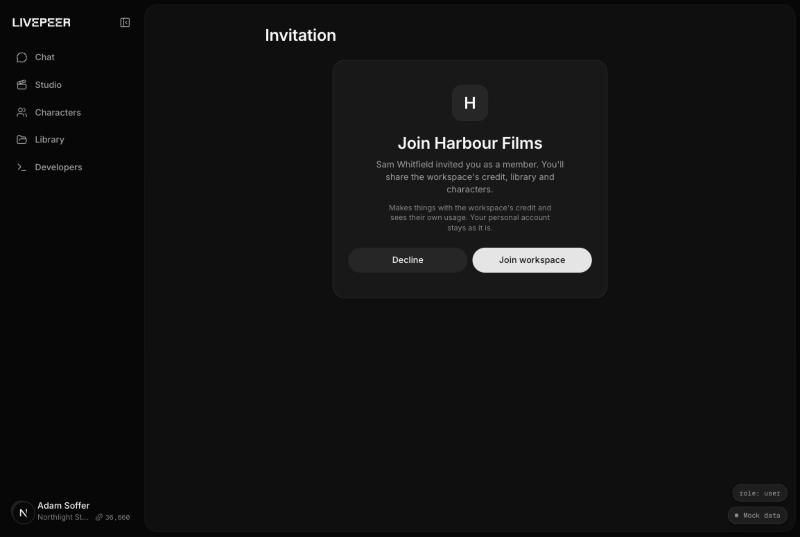
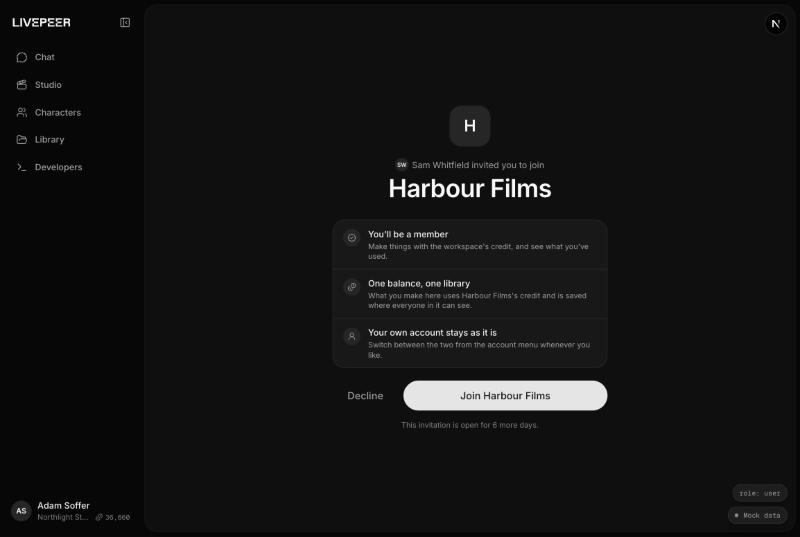
feat(web): make the invitation page one centred decision

diff --git a/packages/user-app/src/workspace/join.tsx b/packages/user-app/src/workspace/join.tsx
@@ -2,11 +2,11 @@
 
 import type { WorkspaceInvitation } from "@livepeer/api-client/provider";
 import { Button, Card, EmptyState } from "@livepeer/ui";
-import { MailX } from "lucide-react";
-import { useState, useTransition } from "react";
+import { BadgeCheck, Coins, MailX, UserRound, type LucideIcon } from "lucide-react";
+import { useState, useTransition, type ReactNode } from "react";
 
 import { useLink } from "../shell/link";
-import { ROLE_SUMMARY, WorkspaceMark, type Outcome } from "./shared";
+import { PersonMark, ROLE_FOR_YOU, WorkspaceMark, type Outcome } from "./shared";
 
 export interface JoinWorkspaceProps {
   /** Null when the link isn't a real invitation. */
@@ -24,25 +24,48 @@ const CLOSED: Record<Exclude<WorkspaceInvitation["status"], "pending">, string> 
   expired: "This invitation ran out. They last 7 days.",
 };
 
-/** Where an invitation link lands: what you're joining and who asked, then join or decline. */
+function Fact({ icon: Icon, title, children }: { icon: LucideIcon; title: string; children: ReactNode }) {
+  return (
+    <li className="flex gap-3 px-4 py-3">
+      <span aria-hidden className="mt-0.5 flex size-7 shrink-0 items-center justify-center rounded-full bg-secondary text-muted-foreground">
+        <Icon className="size-3.5" strokeWidth={1.75} />
+      </span>
+      <div className="min-w-0">
+        <p className="text-body font-medium text-foreground">{title}</p>
+        <p className="mt-0.5 text-caption text-muted-foreground">{children}</p>
+      </div>
+    </li>
+  );
+}
+
+function daysLeft(invitation: WorkspaceInvitation): string {
+  const days = Math.ceil((Date.parse(invitation.expires_at) - Date.now()) / 86_400_000);
+  return days <= 1 ? "This invitation ends today." : `This invitation is open for ${days} more days.`;
+}
+
+/**
+ * Where an invitation link lands. One decision, alone in the middle of the page: which workspace and who
+ * asked, what joining changes, then join or decline.
+ */
 export function JoinWorkspace({ invitation, alreadyMember, accept, decline }: JoinWorkspaceProps) {
   const Link = useLink();
   const [pending, startTransition] = useTransition();
   const [error, setError] = useState<string | null>(null);
   const [declined, setDeclined] = useState(false);
   const home = <Button asChild><Link href="/">Back to Home</Link></Button>;
+  const frame = (content: ReactNode) => <div className="flex flex-1 items-center justify-center px-4 py-10"><div className="w-full max-w-[440px]">{content}</div></div>;
 
   if (!invitation) {
-    return <EmptyState icon={MailX} title="This link isn't an invitation" body="Check it was copied in full, or ask whoever invited you to send it again." action={home} />;
+    return frame(<EmptyState icon={MailX} title="This link isn't an invitation" body="Check it was copied in full, or ask whoever invited you to send it again." action={home} />);
   }
   if (declined || invitation.status !== "pending") {
-    return (
+    return frame(
       <EmptyState
         icon={MailX}
         title={declined ? "Invitation declined" : "This invitation is no longer open"}
         body={declined ? `You haven't joined ${invitation.workspace_name}. ${invitation.invited_by_name} can invite you again if you change your mind.` : `${CLOSED[invitation.status as keyof typeof CLOSED]} Ask ${invitation.invited_by_name} for a new one.`}
         action={home}
-      />
+      />,
     );
   }
 
@@ -55,21 +78,36 @@ export function JoinWorkspace({ invitation, alreadyMember, accept, decline }: Jo
       else setError(result.error);
     });
   };
+  const role = invitation.role === "admin" ? "an admin" : "a member";
 
-  return (
-    <Card className="mx-auto flex max-w-[440px] flex-col items-center px-6 py-10 text-center">
-      <WorkspaceMark name={invitation.workspace_name} className="mb-5 size-14 rounded-[15px] text-title" />
-      <h2 className="text-title font-semibold tracking-[-0.01em]">Join {invitation.workspace_name}</h2>
-      <p className="mt-2 max-w-[36ch] text-body text-muted-foreground">
-        {invitation.invited_by_name} invited you as {invitation.role === "admin" ? "an admin" : "a member"}. You'll share the workspace's credit, library and characters.
-      </p>
-      <p className="mt-3 max-w-[36ch] text-caption text-subtle-foreground">{ROLE_SUMMARY[invitation.role]} Your personal account stays as it is.</p>
-      {alreadyMember ? <p className="mt-4 text-caption text-muted-foreground">You already belong to this workspace. Switch to it from the account menu.</p> : null}
-      {error ? <p role="alert" className="mt-4 text-caption text-destructive">{error}</p> : null}
-      <div className="mt-6 flex w-full gap-2">
-        <Button className="flex-1" disabled={pending} onClick={() => answer(() => decline(invitation.token), () => setDeclined(true))}>Decline</Button>
-        <Button variant="primary" className="flex-1" disabled={pending || alreadyMember} onClick={() => answer(() => accept(invitation.token))}>{pending ? "Joining…" : "Join workspace"}</Button>
+  return frame(
+    <>
+      <div className="flex flex-col items-center text-center">
+        <WorkspaceMark name={invitation.workspace_name} className="mb-5 size-16 rounded-[18px] text-[26px]" />
+        <p className="flex items-center gap-1.5 text-body text-muted-foreground">
+          <PersonMark name={invitation.invited_by_name} className="size-5 text-[9px]" />
+          {invitation.invited_by_name} invited you to join
+        </p>
+        <h1 className="mt-1.5 text-display font-semibold tracking-[-0.02em] text-foreground">{invitation.workspace_name}</h1>
       </div>
-    </Card>
+
+      <Card className="mt-7">
+        <ul className="divide-y divide-hairline">
+          <Fact icon={BadgeCheck} title={`You'll be ${role}`}>{ROLE_FOR_YOU[invitation.role]}</Fact>
+          <Fact icon={Coins} title="One balance, one library">What you make here uses {invitation.workspace_name}'s credit and is saved where everyone in it can see.</Fact>
+          <Fact icon={UserRound} title="Your own account stays as it is">Switch between the two from the account menu whenever you like.</Fact>
+        </ul>
+      </Card>
+
+      {alreadyMember ? <p className="mt-4 text-center text-caption text-muted-foreground">You already belong to this workspace. Switch to it from the account menu.</p> : null}
+      {error ? <p role="alert" className="mt-4 text-center text-caption text-destructive">{error}</p> : null}
+      <div className="mt-5 flex gap-2">
+        <Button variant="ghost" size="lg" disabled={pending} onClick={() => answer(() => decline(invitation.token), () => setDeclined(true))}>Decline</Button>
+        <Button variant="primary" size="lg" className="min-w-0 flex-1" disabled={pending || alreadyMember} onClick={() => answer(() => accept(invitation.token))}>
+          <span className="truncate">{pending ? "Joining…" : `Join ${invitation.workspace_name}`}</span>
+        </Button>
+      </div>
+      <p className="mt-4 text-center text-caption text-subtle-foreground">{daysLeft(invitation)}</p>
+    </>,
   );
 }

diff --git a/apps/web/app/(app)/join/[token]/page.tsx b/apps/web/app/(app)/join/[token]/page.tsx
@@ -1,5 +1,4 @@
 import { DataSourceBadge, JoinWorkspace } from "@livepeer/user-app";
-import { Page } from "@livepeer/ui";
 import type { Metadata } from "next";
 
 import { acceptInvitationAction, declineInvitationAction } from "@/lib/actions";
@@ -12,7 +11,7 @@ export default async function JoinPage({ params }: { params: Promise<{ token: st
   const { token } = await params;
   const [invitation, list] = await Promise.all([(await api()).getInvitation(token), accounts()]);
   return (
-    <Page title="Invitation" width="narrow">
+    <>
       <JoinWorkspace
         invitation={invitation.data}
         alreadyMember={Boolean(invitation.data && list?.accounts.some((entry) => entry.id === invitation.data?.workspace_id))}
@@ -20,6 +19,6 @@ export default async function JoinPage({ params }: { params: Promise<{ token: st
         decline={declineInvitationAction}
       />
       {isDev ? <DataSourceBadge sources={[{ name: "getInvitation", source: invitation.source }]} /> : null}
-    </Page>
+    </>
   );
 }

diff --git a/packages/user-app/src/workspace/shared.tsx b/packages/user-app/src/workspace/shared.tsx
@@ -12,6 +12,12 @@ export const ROLE_SUMMARY: Record<WorkspaceRole, string> = {
   member: "Makes things with the workspace's credit and sees their own usage.",
 };
 
+/** The same, said to the person who is about to hold the role. */
+export const ROLE_FOR_YOU: Record<Exclude<WorkspaceRole, "owner">, string> = {
+  admin: "Invite and remove people, make API keys and see everyone's usage, as well as making things.",
+  member: "Make things with the workspace's credit, and see what you've used.",
+};
+
 export const count = (value: number) => new Intl.NumberFormat("en").format(value);
 
 export function initials(name: string): string {

diff --git a/docs/design-proposals.md b/docs/design-proposals.md
@@ -121,3 +121,4 @@ brand expression, Inter + Geist Mono, mono logo, 4px rhythm) are unchanged. Scre
 | 112 | **At phone width a member row drops its badge.** The role moves to the start of the second line ("Member · priya@example.test") and usage takes a third, so nothing is cut short beside the Manage button. From the mobile-width review of the first build. |
 | 113 | **Console: Workspaces sits beside Users and reuses the user page's parts.** A list with the same columns as Users (owner and member count in place of email and last seen), and a detail page built from the user detail's stats, plan chips, keys and usage tables, plus Members (role, credits, jobs, last active) and Invitations. Usage gains a "Run by" column. The console does not change roles or membership: those are the owner's, and the page says so. Suspend explains that members keep their own accounts. |
 | 114 | **The account menu is one column of one kind of row, and a third shorter.** From the owner's review of decision 107: the menu had grown tall, and the accounts' marks did not line up with the icons below them. Every row now has the same shape, a 28px slot and then the words, so marks, icons and labels each keep to one line down the menu (and to the avatar of the button that opens it). The header and the "Working in" label are gone: the accounts are the top of the menu, and the personal one carries the person's name with "Personal" beneath, so it still says who is signed in (this replaces that part of decision 107). "Add credits" and "Plan" went to the same page, so they are one row, "Plan and credits" ("Plan" for someone who can't buy). The theme is an icon button on the Sign out row, not a row of its own. An invitation is a dashed mark, the workspace's name and a "Join" pill, so it reads as a workspace you aren't in yet, not as a setting. Rows are 36px, accounts 44px. |
+| 115 | **An invitation is one decision, alone in the middle of the page.** From the owner's review: the first version put a centred card under a left-aligned "Invitation" page title, with three centred paragraphs. Now there is no page title and nothing else on the page. The workspace's mark, "Sam Whitfield invited you to join" with the inviter's avatar, and the workspace's name as the headline; then three short facts in one card, each a title and a line (your role and what it lets you do, said to you; one balance and one library; your own account stays as it is); then the answer. Join is the one primary button and names the workspace ("Join Harbour Films"); Decline is quiet beside it. A last line says how long the invitation stays open. A link that isn't an invitation, or one that has closed, gets the same centred place. |
